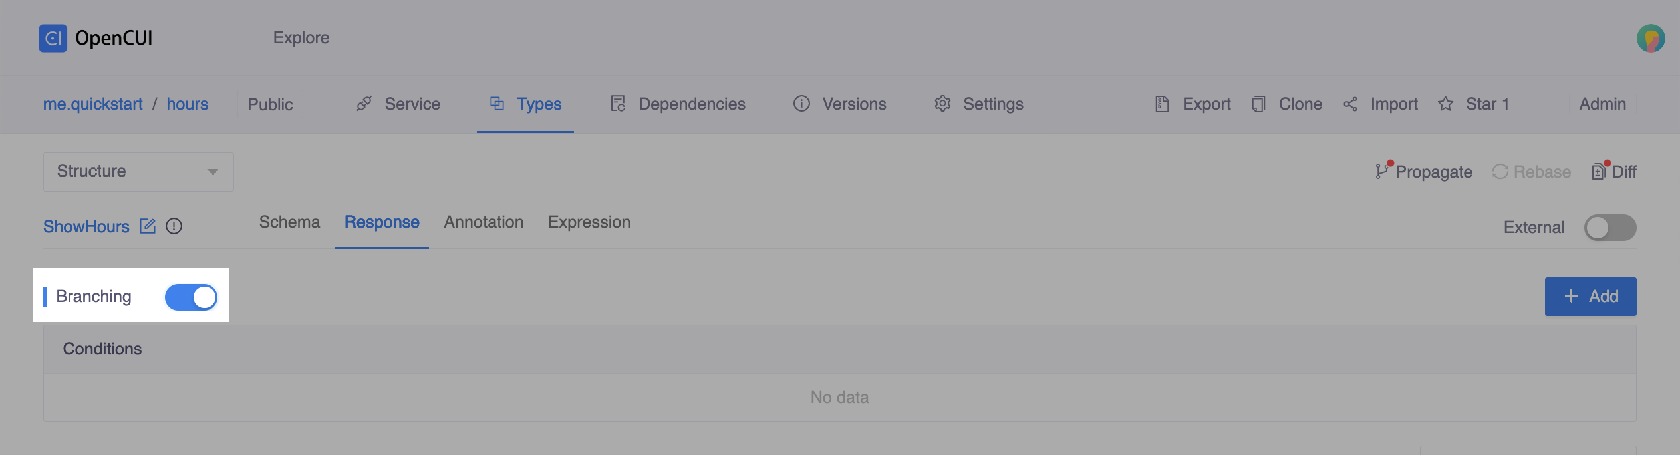
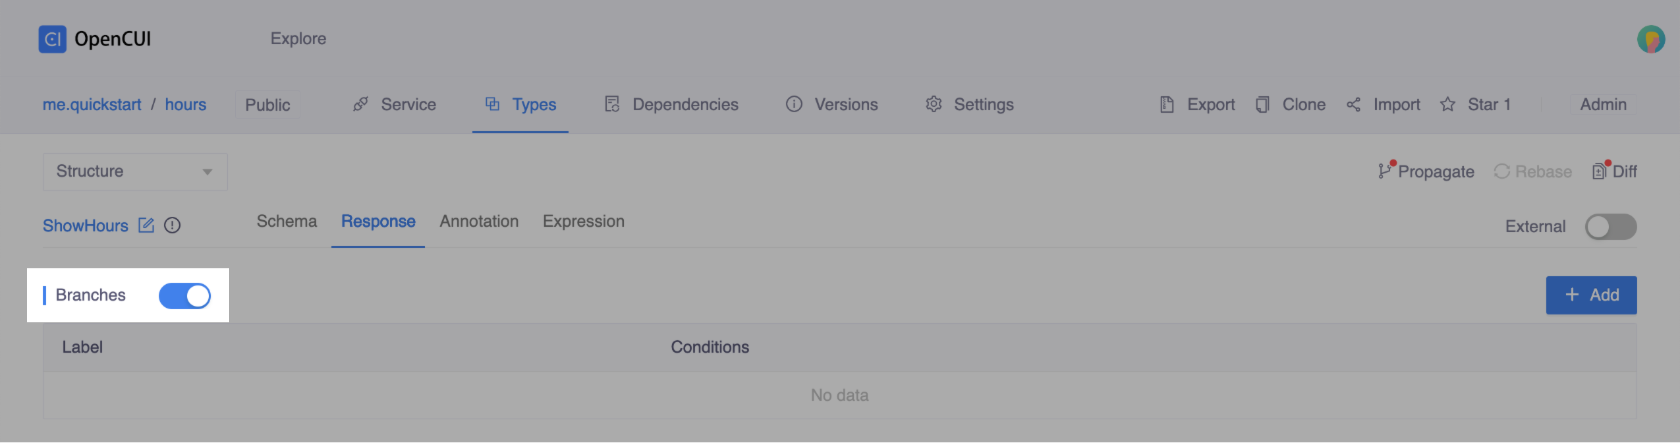
update response part

diff --git a/docs/guide/build-module.md b/docs/guide/build-module.md
@@ -45,7 +45,7 @@ You will define a "BusinessHours" frame for this purpose since a OpenCUI frame i
 At this layer, you will create a frame and add all of the necessary slots.
 
 ##### Create the frame
-Inside the **hours** module and **Types** page, under the **Structure** view.
+Inside the `hours` module and **Types** page, under the **Structure** view.
 1. Click **Create** button on the right side, and select **Create frame** to create a new frame.
 2. Enter `BusinessHours` as a label for the frame type and press enter.
 
@@ -72,7 +72,7 @@ Since this type does not need to be exposed conversationally, there is no need t
 ### Declare function: getHoursWeek
 The function `getHoursWeek` gets the week of hours. It returns a list of `BusinessHours`, where each represents the business hours for a specific day. To declare this function interface: 
 
-Inside the **hours** module and **Service** page, under the **Structure** view.
+Inside the `hours` module and **Service** page, under the **Structure** view.
 1. In the **Functions** section, click **Add**.
 2. Enter `getHoursWeek` as the **Function label**.
 3. In the **Return type** section, select **Frame** > **BusinessHours** as **Type**. Turn on **Multi-value**d and turn off **Nullable**, then save.
@@ -81,7 +81,7 @@ Inside the **hours** module and **Service** page, under the **Structure** view.
 
 The function `getHoursDay` returns a specific day's business hour based on the specific date provided by customers. It takes a date as input and returns one `BusinessHours`, where the frame represents the business hours for the specified day. To declare this function interface: 
 
-Inside the **hours** module and **Service** page, under the **Structure** view.
+Inside the `hours` module and **Service** page, under the **Structure** view.
 1. In the **Functions** section, click **Add**.
 2. Enter `getHoursDay` as the **Function label**.
 3. In the **Parameters** section, click **+** to add an input parameter. 
@@ -107,7 +107,7 @@ Although there are two API functions that need to be exposed, only one skill is 
 To create a skill for managing users' questions on business hours, you need to create the type, add the necessary slots and services.
 
 ##### Create the skill
-Inside the **hours** module and **Types** page, under the **Structure** view.
+Inside the `hours` module and **Types** page, under the **Structure** view.
 1. Click **Create** button on the right side, and select **Create skill** to create a new skill.
 2. Enter `ShowHours` as a label for the skill type and press enter.
 
@@ -143,7 +143,7 @@ Inside the `ShowHours/datePicker` slot and **Annotation** tab, under the **Struc
 
 ::: tip Remember to propagate the change you made under the Structure view
 - Both schema layer and interaction layer are defined under **Structure** view, but language layer is under corresponding language view, for example, for English, it should be under "Language/en".
-- Before beginning work on the language layer, always [propagate](./opencui-flow.md#propagate-the-changes-to-language-layer) the changes made so far to the language layer, and then switch over to the corresponding language view.
+- Before beginning work on the language layer, always [propagate](./opencui-flow.md#propagate-the-changes-to-language-view) the changes made so far to the language layer, and then switch over to the corresponding language view.
 :::
 
 ###### Language layer
@@ -188,7 +188,7 @@ The responses for this skill depend on a number of the things: whether `datePick
 Clearly, you need to turn on the branching:
 
 Inside the `ShowHours` skill and the **Response** tab, under the **Structure** view.
-- turn on **Branching**.
+- Turn on **Branches**.
 
 ::: thumbnail
 ![add a branch](/images/guide/build-service/branching.png)
@@ -200,12 +200,13 @@ Now you can define each branch one at a time, first in interaction layer, then i
 Remember to propagate the change in the structure view before you switch to language view, to make sure the annotation you can fill language part is made available.
 :::
 
-##### Define branch: for an open day
-To show the business hours on a user-mentioned date.
+##### Define branch: OpenDay
+To show the business hours on a user-mentioned date if it's open on that day.
 ###### Interaction layer
 Inside the `ShowHours` skill and the **Response** tab, under the **Structure** view.
-1. In the **Branching** section, click **Add**.
+1. In the **Branches** section, click **Add**.
 2. Inside a branch:
+   - Set a branch label, such as `OpenDay`, for the business being open on the user-mentioned date.
    - In the **Conditions** section, copy and paste the following code:
    ```kotlin
    datePicker?.date != null && hours.getHoursDay(datePicker!!.date!!).ifOpen == true
@@ -213,29 +214,30 @@ Inside the `ShowHours` skill and the **Response** tab, under the **Structure** v
    - In the **Action sequence** section, select **Single value message**.
 
 ###### Language layer
-Inside the `ShowHours` skill and the **Responses** tab, under the **Language/en** view.
-In the **Single value message** section, enter this:
+Inside the `OpenDay` branch, under the **Language/en** view.
+- In the **Single value message** section, enter this:
 _We are open on ${`datePicker!!.date!!.expression()`} from ${`hours.getHoursDay(datePicker!!.date!!).openingTime!!.expression()`} to ${`hours.getHoursDay(datePicker!!.date!!).closingTime!!.expression()`}._
 
 
-##### Define branch: for a closed day
+##### Define branch: ClosedDay
 When you are closed on the date that users are interested in, you first inform that it is closed, then you list regular weekly hours. 
 
 ###### Interaction layer
 Inside the `ShowHours` skill and the **Response** tab, under the **Structure** view.
 To inform the user it's closed on a user-mentioned date:
-- Back to the **Response** tab, in the **Branching** section, click **Add**. 
-- Inside a branch:
-  - In the **Conditions** section, copy and paste the following code:
-  ```kotlin
-  datePicker?.date != null && hours.getHoursDay(datePicker!!.date!!).ifOpen == false
-  ```
-- In the **Action sequence** section, select **Single value message** and **Multiple value message**.
-  - **Single value message** is used to inform the user it's closed on that day.
-  - **Multiple value message** is used to display a list of business hours in a week, so the user can get additional information to make a choice.
+1. In the **Branches** section, click **Add**.
+2. Inside a branch:
+   - Set a branch label, such as `ClosedDay`, for the business being closed on the user-mentioned date.
+   - In the **Conditions** section, copy and paste the following code:
+      ```kotlin
+      datePicker?.date != null && hours.getHoursDay(datePicker!!.date!!).ifOpen == false
+      ```
+   - In the **Action sequence** section, select **Single value message** and **Multiple value message**.
+      - **Single value message** is used to inform the user it's closed on that day.
+      - **Multiple value message** is used to display a list of business hours in a week, so the user can get additional information to make a choice.
 
 ###### Language layer
-Inside the `ShowHours` skill and the **Responses** tab, under the **Language/en** view.
+Inside the `ClosedDay` branch,  under the **Language/en** view.
 - In the **Single value message** section, enter this:
 _Sorry, but we don't open on ${`datePicker!!.date!!.expression()`}._
 - In the **Multiple value message** section, enter the following content:
@@ -243,13 +245,14 @@ _Sorry, but we don't open on ${`datePicker!!.date!!.expression()`}._
   - **Body**:
     _${`it.value.dayOfWeek!!.expression()`}_
     _${`if (it.value.ifOpen == true) it.value.openingTime!!.expression() + " – " + it.value.closingTime!!.expression() else "Closed"`}_
-  - 
-##### Default branch: for the week
+
+##### Default branch
 If user did not give chatbot a date, simply response with regular weekly hours.
+
 ###### Interaction layer
 Inside the `ShowHours` skill and the **Response** tab, under the **Structure** view.
 If no date is mentioned, use the default branch to display business hours for each day of the week:
-- In the **Default action** section, select **Multiple value message**.
+- In the **Default branch** section, select **Multiple value message**.
 - In the **Source** section, copy and paste the following code:
    ``` kotlin
    hours.getHoursWeek()
@@ -262,4 +265,4 @@ In the **Multiple value message** field, enter the following content:
    - _${`it.value.dayOfWeek!!.expression()`}_
    - _${`if (it.value.ifOpen == true) it.value.openingTime!!.expression() + " – " + it.value.closingTime!!.expression() else "Closed"`}_
 
-Now that you have finished building a module, you can  [create a pull request](./opencui-flow.md#create-a-pull-request), [merge it into the master](./opencui-flow.md#review-and-merge-pull-request). You can then go back to the chatbot you used in the last guide, replace the module you imported with this one, and experiment with it. 
+Now that you have finished building a module, you can  [create a pull request](./opencui-flow.md#create-a-pull-request), [merge it into the master](./opencui-flow.md#review-and-merge-pull-request). You can then go back to the chatbot you used in the last guide, replace the module you imported with this one, and experiment with it.
